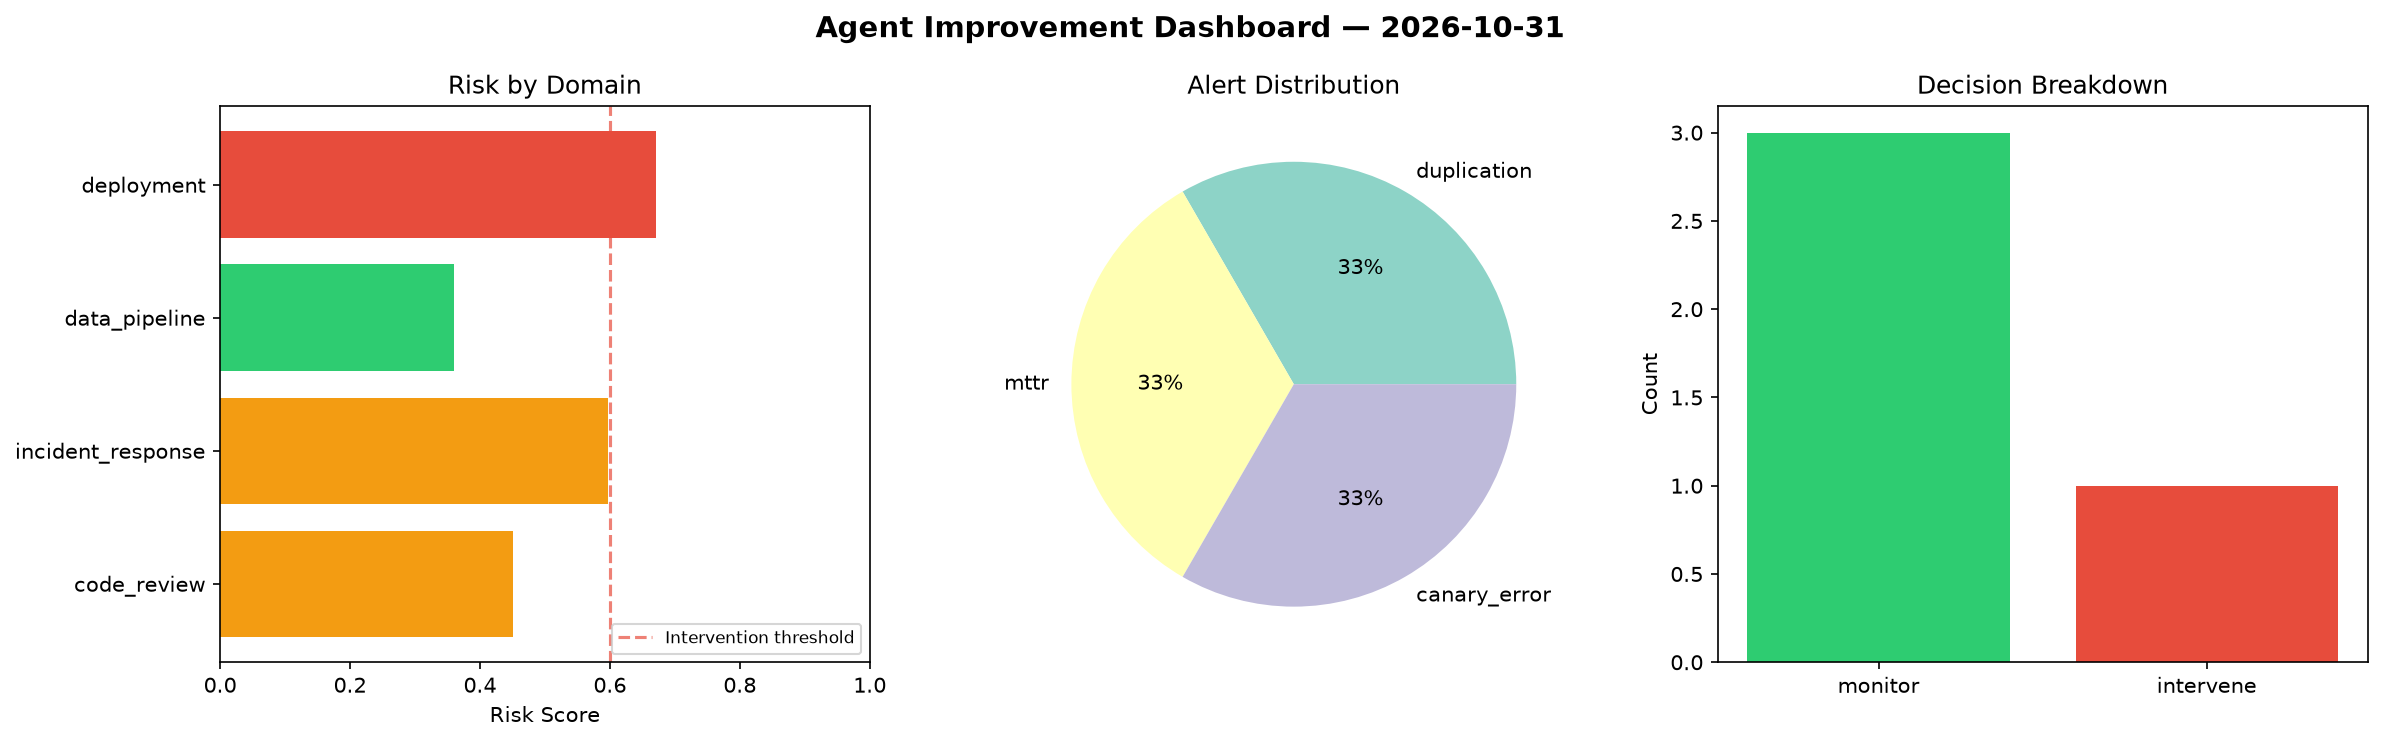
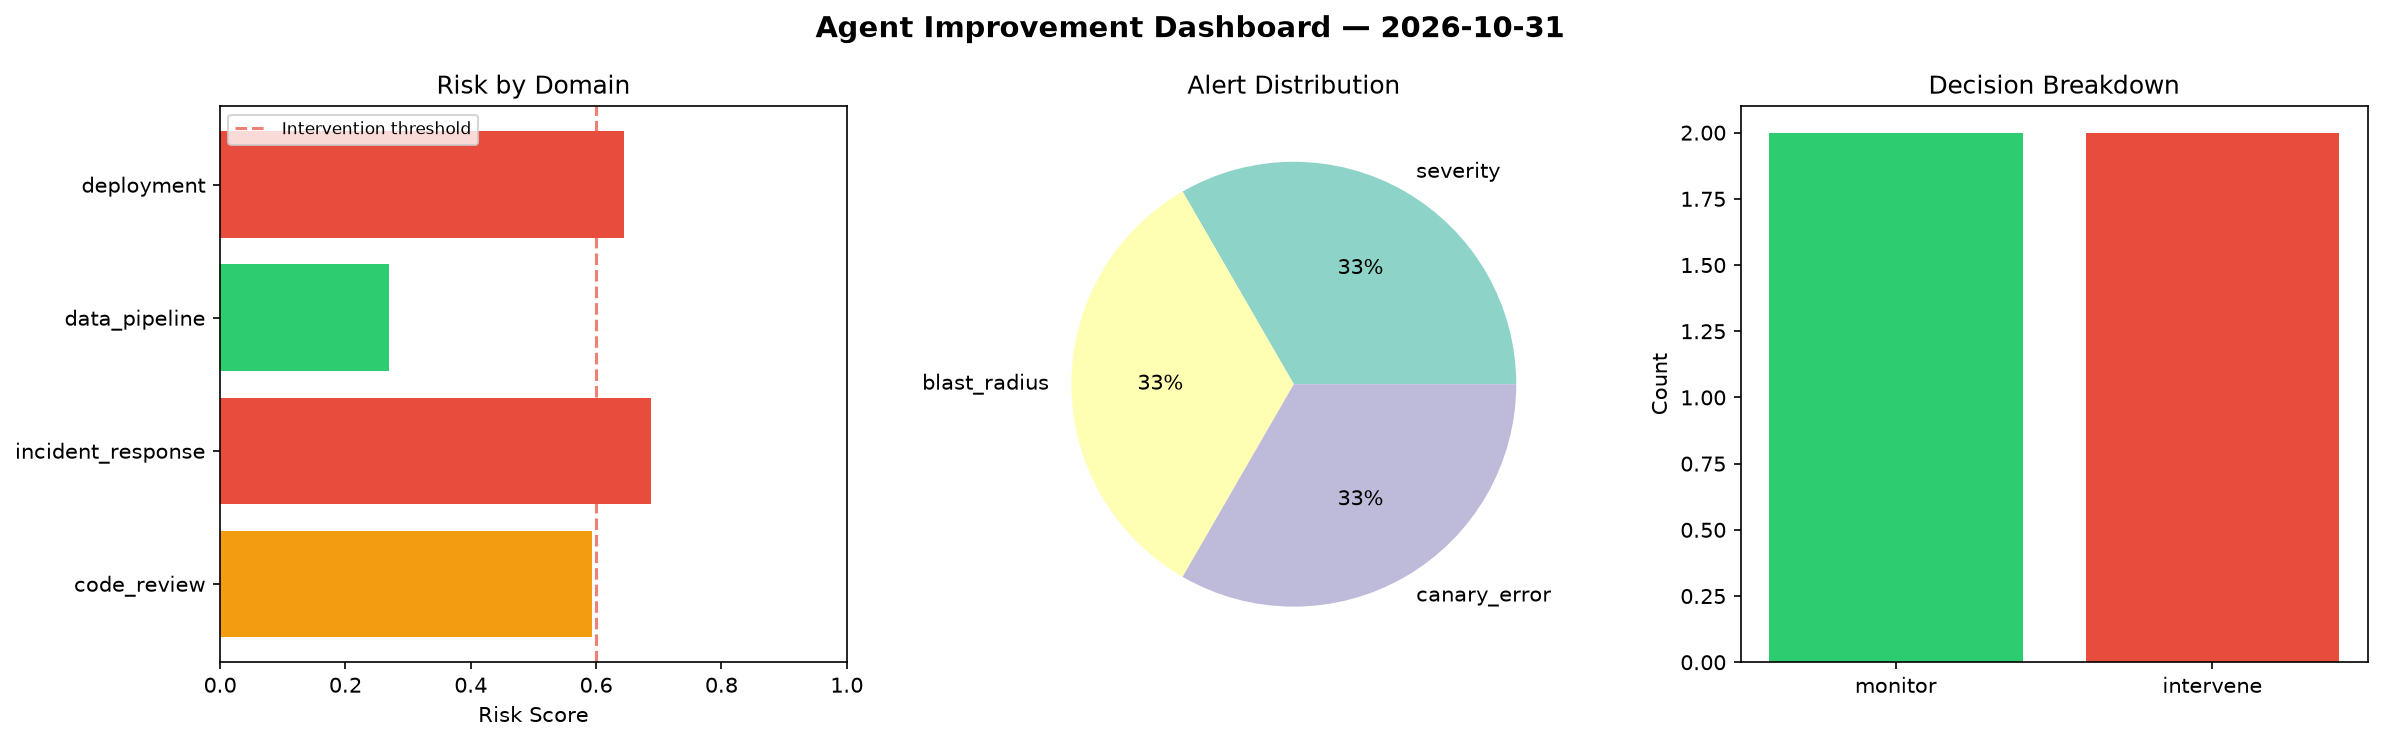
agent-improvement: daily cycle 2026-10-31T14:31

diff --git a/logs/2026-10-31.md b/logs/2026-10-31.md
@@ -1,6 +1,6 @@
 # Agent Improvement Report — 2026-10-31
 
-**Cycle ID:** `627beb4b` | **Avg Risk:** 0.5195 | **Interventions:** 1/4
+**Cycle ID:** `a7411766` | **Avg Risk:** 0.5488 | **Interventions:** 2/4
 
 ![Dashboard](2026-10-31_dashboard.png)
 
@@ -10,18 +10,18 @@
 
 | Domain | Risk Score | Decision | Alerts |
 |--------|-----------|----------|--------|
-| code_review | 0.4501 | monitor | duplication |
-| incident_response | 0.5972 | monitor | mttr |
-| data_pipeline | 0.3596 | monitor | none |
-| deployment | 0.6712 | intervene | canary_error |
+| code_review | 0.5937 | monitor | none |
+| incident_response | 0.6874 | intervene | severity, blast_radius |
+| data_pipeline | 0.2702 | monitor | none |
+| deployment | 0.6439 | intervene | canary_error |
 
 ## Delta vs Yesterday
 
 | Domain | Today | Yesterday | Change |
 |--------|-------|-----------|--------|
-| code_review | 0.4501 | 0.7954 | 📉 -43.4% |
-| incident_response | 0.5972 | 0.4144 | 📈 44.1% |
-| data_pipeline | 0.3596 | 0.5156 | 📉 -30.3% |
-| deployment | 0.6712 | 0.6376 | 📈 5.3% |
+| code_review | 0.5937 | 0.7954 | 📉 -25.4% |
+| incident_response | 0.6874 | 0.4144 | 📈 65.9% |
+| data_pipeline | 0.2702 | 0.5156 | 📉 -47.6% |
+| deployment | 0.6439 | 0.6376 | 📈 1.0% |
 
 **Refinement:** `{'adjustment': 'tighten_thresholds', 'trend': 'degrading', 'window': 4}`
